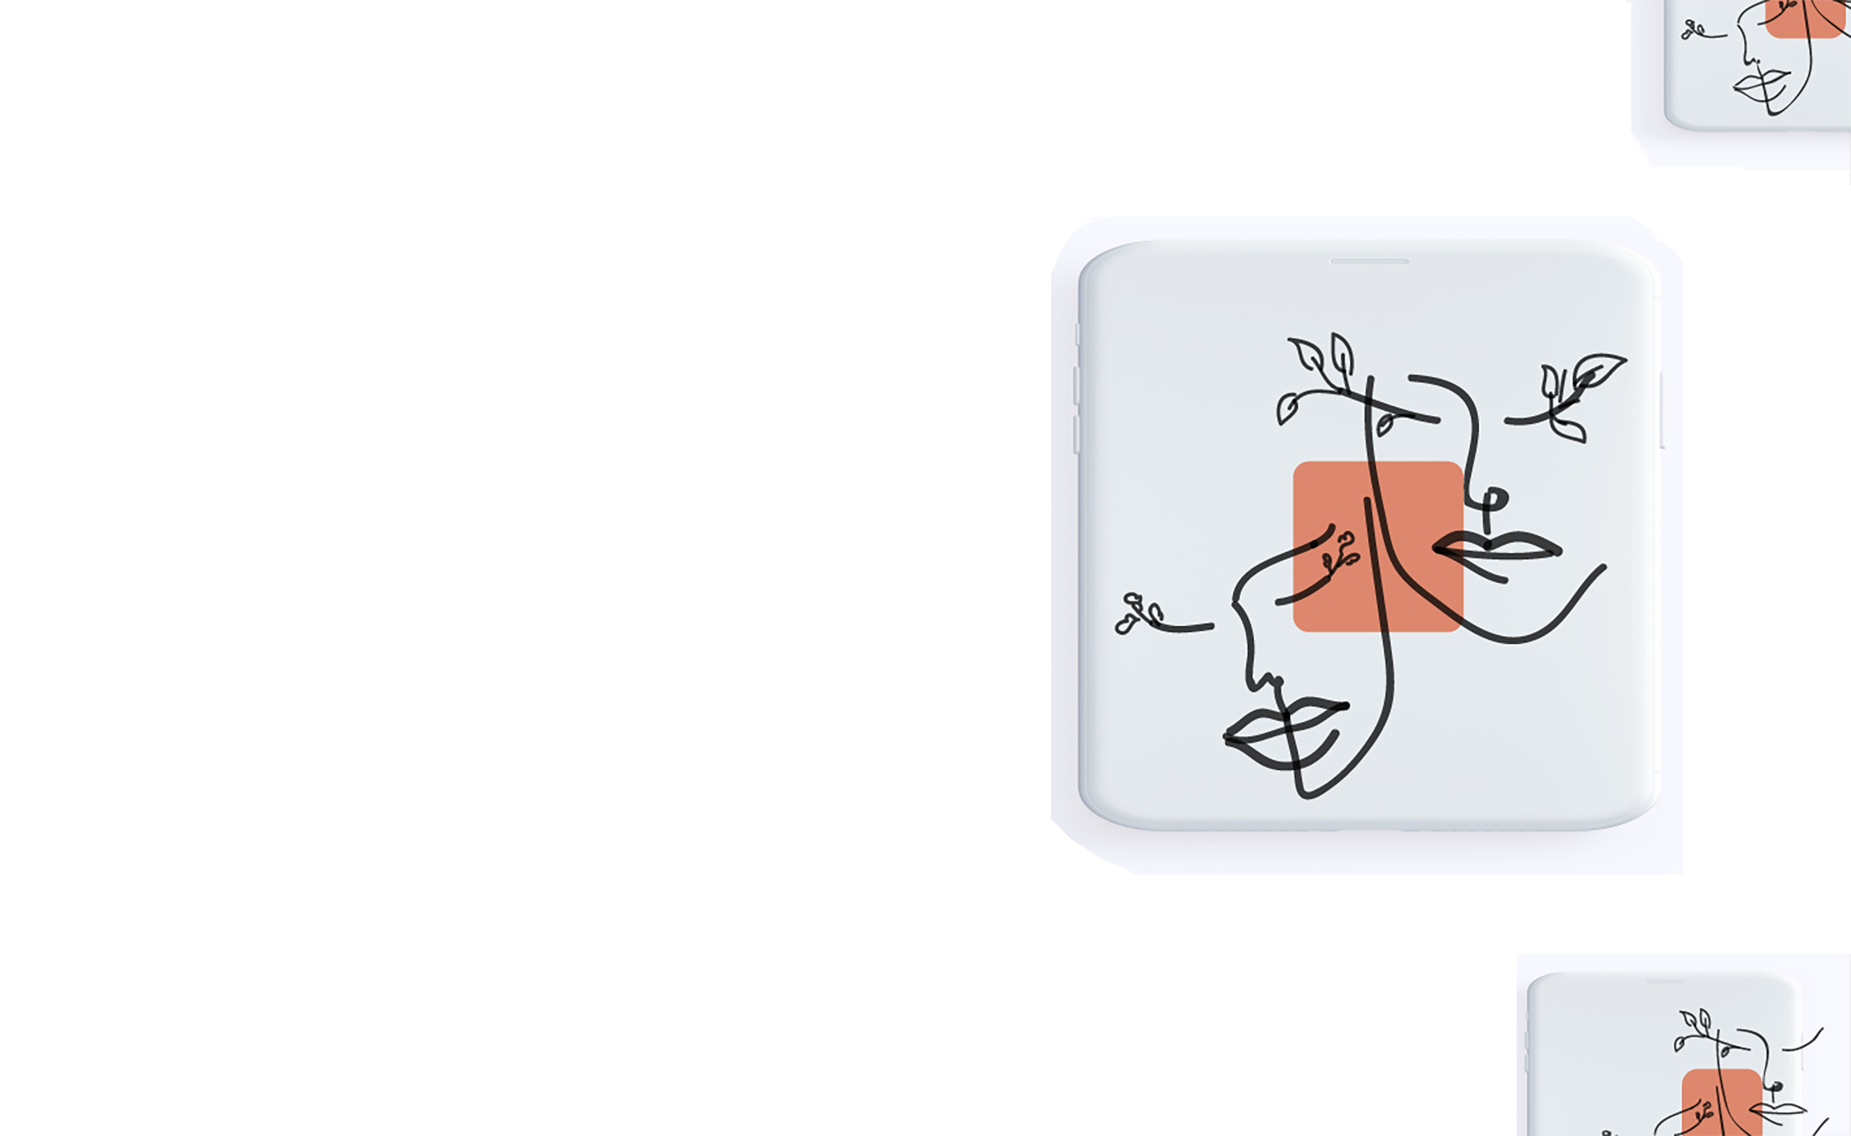
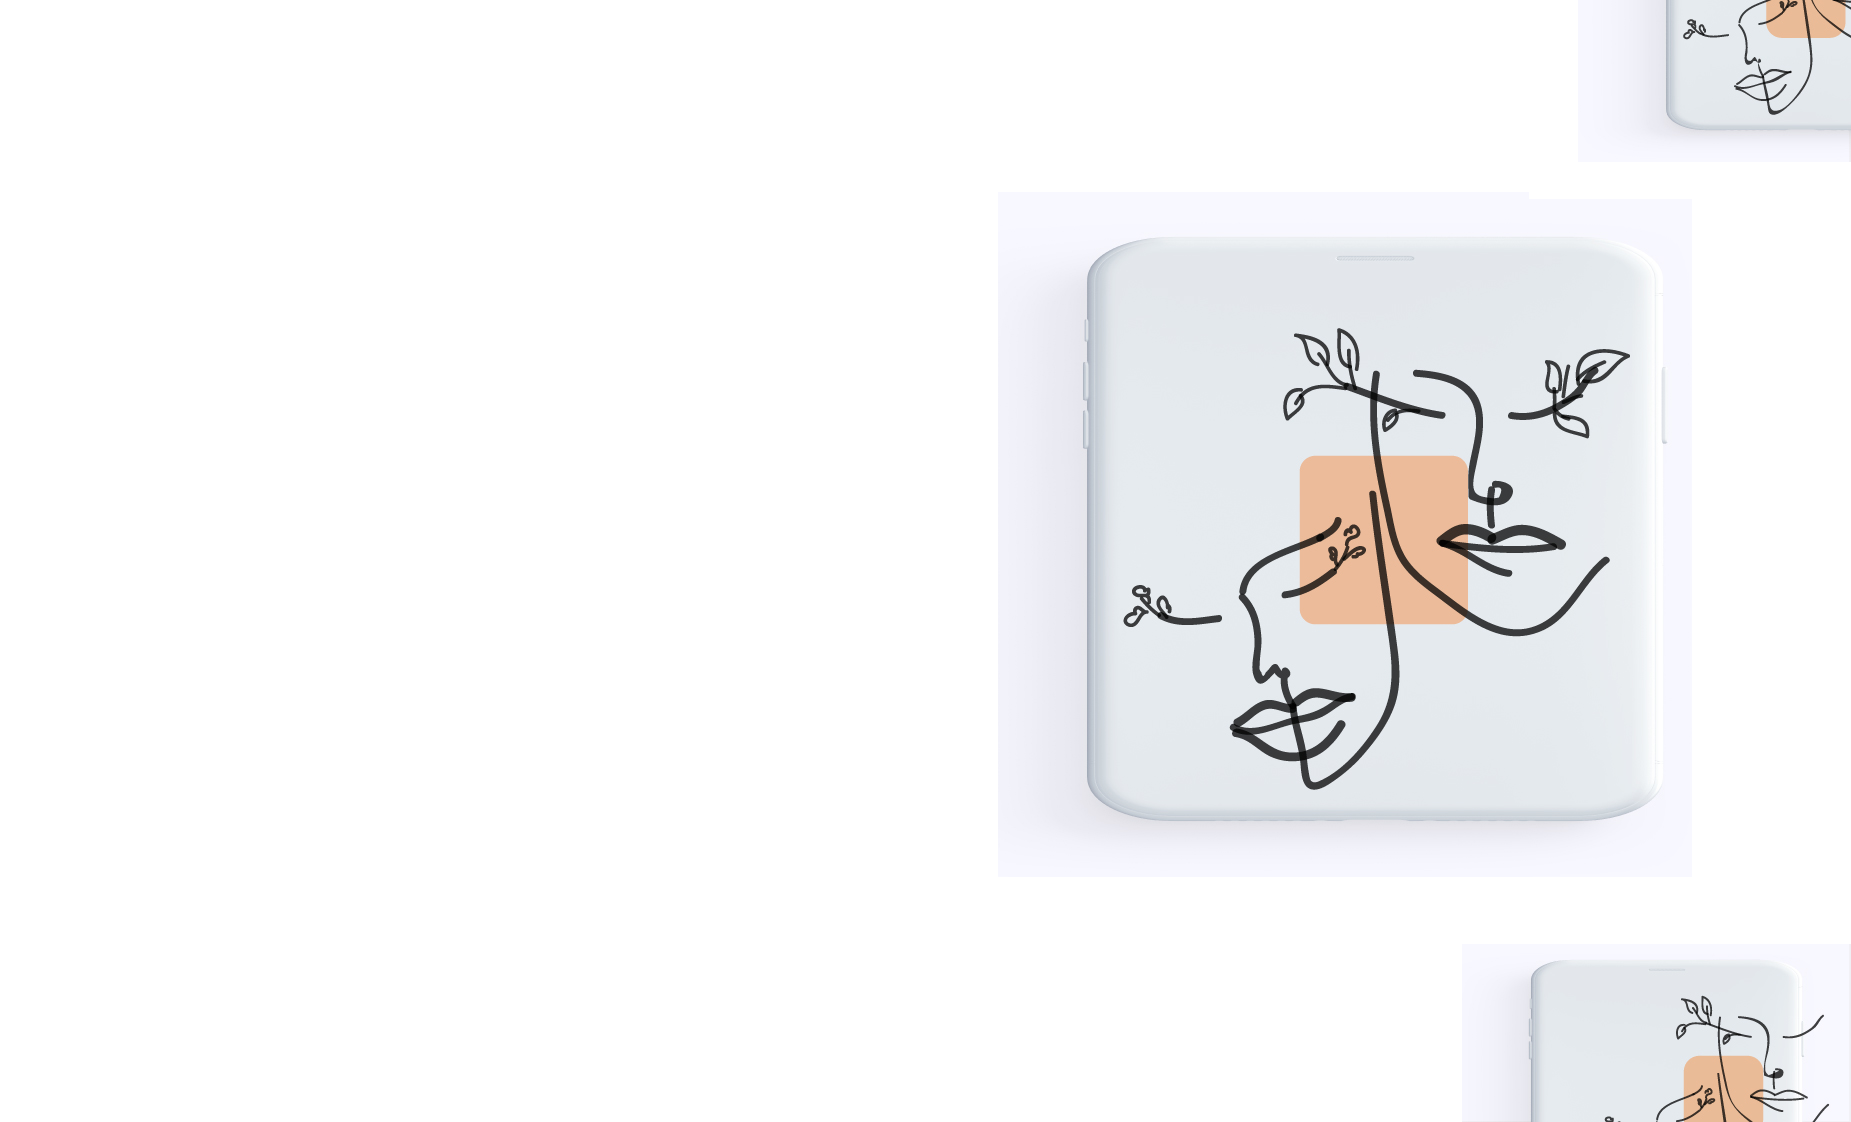
commit

diff --git a/index.html b/index.html
@@ -34,13 +34,8 @@
         <!-- External Styles -->
 
         <!-- Favicon -->
-        <link rel="apple-touch-icon" sizes="180x180" href="images/favicon/apple-touch-icon.png">
-        <link rel="icon" type="image/png" sizes="32x32" href="images/favicon/favicon-32x32.png">
-        <link rel="icon" type="image/png" sizes="16x16" href="images/favicon/favicon-16x16.png">
-        <link rel="manifest" href="images/favicon/site.webmanifest">
-        <link rel="mask-icon" href="images/favicon/safari-pinned-tab.svg" color="#5bbad5">
-        <meta name="msapplication-TileColor" content="#da532c">
-        <meta name="theme-color" content="#ffffff">
+        <link rel="icon" type="image/png" sizes="32x32" href="img/fvicon.jpg">
+        <link rel="icon" type="image/png" sizes="16x16" href="img/favicon.jpg">
         
     </head>
     <body>
@@ -67,7 +62,7 @@
         <div id="main">
             <div id="cover_image"> </div>
             <div id="header_text" >
-                <h2 style="font-size: 60px;">Hey! <span style="color:#DD876D;">I'm Nehal</span>.</h2>
+                <h2 style="font-size: 60px;">Hey! <span style="color:#eabb97;">I'm Nehal</span>.</h2>
                 <p>I love people and their stories.</p></div>
             <!-- <div id="placeholdersoyoucanscroll"> </div> -->
                 <!-- <img widht="100%" id="landing illustration" src="img/bg.png"> -->
@@ -169,7 +164,8 @@
         <div id="about">
             <section id="about1">
                 <article id="about1a">
-                    <img src="img/me.jpeg" alt="My picture" width="400" height="500">
+                    <img style="box-shadow: 6px 6px 10px -1px rgba(0,0,0,0.15),
+                    -6px -6px 10px -1px rgba(255,255,255);" src="img/me.jpeg" alt="My picture" width="400" height="500">
                 </article>
                 
                 <article id="about1b">
@@ -181,7 +177,7 @@
     
                     <p>Let's connect!</p>
 
-                    <p>Send me an <a data-mce-href="mailto:nehalj98@gmail.com" href="mailto:nehalj98@gmail.com" target="_blank" rel="noopener"> email</a>, or connect with me on <a data-mce-href="https://www.linkedin.com/in/nehalj98/" href="https://www.linkedin.com/in/nehalj98/" target="_blank" rel="noopener">LinkedIn</a>.</p>
+                    <p>Send me an <a data-mce-href="mailto:nehalj98@gmail.com" href="mailto:nehalj98@gmail.com" target="_blank" rel="noopener">  <span style="color:#d4a181; font-weight: bold;">email</span></a>, or connect with me on <a data-mce-href="https://www.linkedin.com/in/nehalj98/" href="https://www.linkedin.com/in/nehalj98/" target="_blank" rel="noopener"><span style="color:#d4a181; font-weight: bold;">LinkedIn</span</a>.</p>
     
                 </article>
             </section> 

diff --git a/styles/index_styles.css b/styles/index_styles.css
@@ -173,7 +173,7 @@
       background-image:url(../img/bg.png);
       /* background-position: top center;
       background-repeat: no-repeat; */
-      background-attachment:scroll;
+      background-attachment:fixed;
       background-size: cover;
       width: auto;
       height: 100vh;
@@ -328,7 +328,7 @@
   }
 
   #dhousing_module_description:hover {
-    background:#DD876D;
+    background:#eabb97;
     box-shadow: inset 4px 4px 6px -1px rgba(0,0,0,0.2),
                 inset -4px -4px 6px -1px rgba(255,255,255,0.7),
                 -0.5px -0.5px 0px rgba(255,255,255,1),
@@ -345,7 +345,7 @@
   }
 
   #explored_module_description:hover {
-    background: #DD876D;
+    background: #eabb97;
     box-shadow: inset 4px 4px 6px -1px rgba(0,0,0,0.2),
                 inset -4px -4px 6px -1px rgba(255,255,255,0.7),
                 -0.5px -0.5px 0px rgba(255,255,255,1),
@@ -362,7 +362,7 @@
   }
 
   #dcc_module_description:hover {
-    background:	#DD876D;
+    background:	#eabb97;
     box-shadow: inset 4px 4px 6px -1px rgba(0,0,0,0.2),
                 inset -4px -4px 6px -1px rgba(255,255,255,0.7),
                 -0.5px -0.5px 0px rgba(255,255,255,1),
@@ -379,7 +379,7 @@
   }
 
   #cstem_module_description:hover {
-    background:	#DD876D;
+    background:	#eabb97;
     box-shadow: inset 4px 4px 6px -1px rgba(0,0,0,0.2),
                 inset -4px -4px 6px -1px rgba(255,255,255,0.7),
                 -0.5px -0.5px 0px rgba(255,255,255,1),
